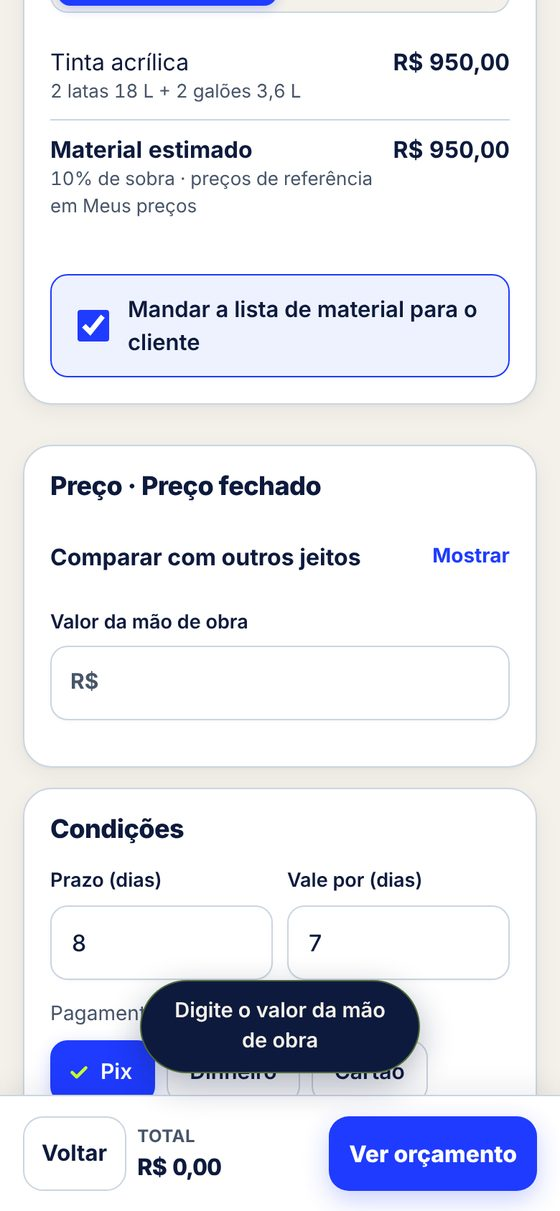
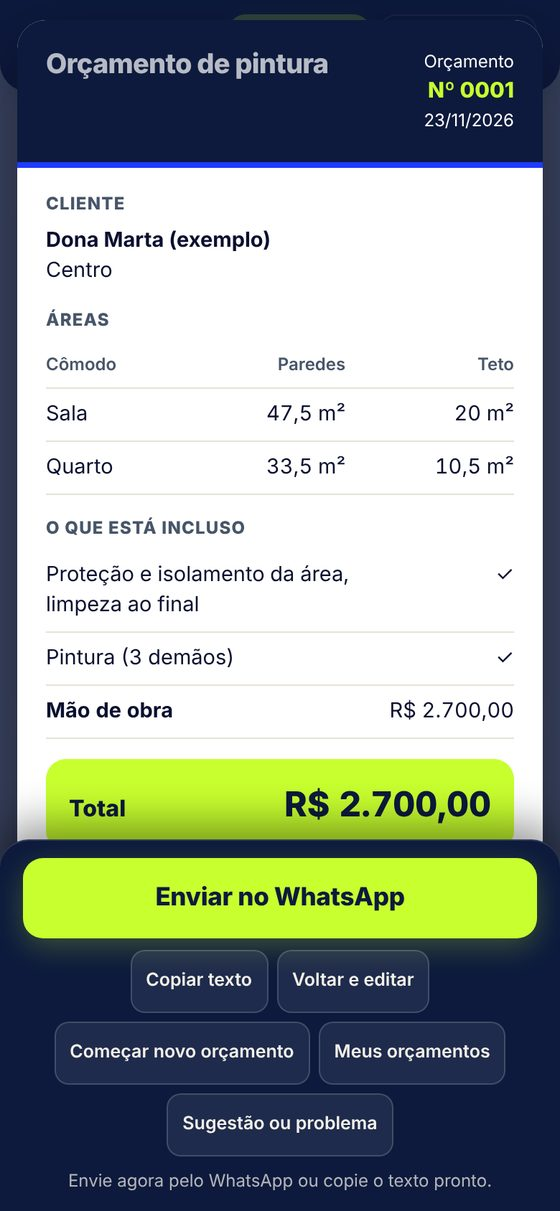
Sugestão ou problema em todas as telas + imagem certa da folha na ajuda
- Botão 'Sugestão ou problema' agora também em Meus orçamentos, Meus clientes,
  Pagamento, Recebimentos, na página de ajuda e na de privacidade (pedido do
  Welbert, 24/11). Cada um registra de qual tela veio.
- Ajuda: a imagem da folha pronta estava mostrando a tela errada; trocada pela
  folha de verdade.

Claude-Session: https://claude.ai/code/session_011c2NkN71q5vzRThzQDLMGi

diff --git a/orcamento/index.html b/orcamento/index.html
@@ -576,6 +576,7 @@ details .in{display:flex;flex-direction:column;gap:10px;margin-top:8px}
     <div id="hist-lista" style="display:flex;flex-direction:column;gap:10px"></div>
     <div class="backup"><button class="link" id="bk-salvar">Salvar cópia de segurança</button><label class="link" style="cursor:pointer">Restaurar cópia<input type="file" id="bk-abrir" accept="application/json,.json" hidden></label></div>
     <p class="hint" style="margin:0;text-align:center">A cópia guarda preços, orçamentos e clientes num arquivo. Use se for trocar de celular.</p>
+    <p class="nb-sug"><span>Achou algo estranho ou tem uma ideia?</span> <button class="link" data-coment="hist">Sugestão ou problema</button></p>
   </div>
 </div>
 <div class="hist-wrap" id="cli-wrap" hidden role="dialog" aria-modal="true" aria-labelledby="cli-t">
@@ -586,6 +587,7 @@ details .in{display:flex;flex-direction:column;gap:10px;margin-top:8px}
     <button class="sec" id="cli-novo" style="min-height:48px">+ Cadastrar cliente</button>
     <div id="cli-edit"></div>
     <div id="cli-lista" style="display:flex;flex-direction:column;gap:10px"></div>
+    <p class="nb-sug"><span>Achou algo estranho ou tem uma ideia?</span> <button class="link" data-coment="cli">Sugestão ou problema</button></p>
   </div>
 </div>
 <div class="hist-wrap" id="pag-wrap" hidden role="dialog" aria-modal="true" aria-labelledby="pag-t">
@@ -593,6 +595,7 @@ details .in{display:flex;flex-direction:column;gap:10px;margin-top:8px}
     <div class="hist-cab"><h2 id="pag-t">Pagamento</h2><button class="link" id="pag-fechar">Fechar</button></div>
     <p class="hint" style="margin:0" id="pag-sub"></p>
     <div id="pag-corpo" style="display:flex;flex-direction:column;gap:10px"></div>
+    <p class="nb-sug"><span>Achou algo estranho ou tem uma ideia?</span> <button class="link" data-coment="pag">Sugestão ou problema</button></p>
   </div>
 </div>
 <div class="hist-wrap" id="rec-wrap" hidden role="dialog" aria-modal="true" aria-labelledby="rec-t">
@@ -600,6 +603,7 @@ details .in{display:flex;flex-direction:column;gap:10px;margin-top:8px}
     <div class="hist-cab"><h2 id="rec-t">Recebimentos</h2><button class="link" id="rec-fechar">Fechar</button></div>
     <p class="hint" style="margin:0">O que já entrou e o que ainda falta receber dos serviços fechados. Fica só neste celular.</p>
     <div id="rec-corpo" style="display:flex;flex-direction:column;gap:10px"></div>
+    <p class="nb-sug"><span>Achou algo estranho ou tem uma ideia?</span> <button class="link" data-coment="rec">Sugestão ou problema</button></p>
   </div>
 </div>
 <div class="toast" id="toast" hidden></div>

diff --git a/privacidade.html b/privacidade.html
@@ -67,6 +67,7 @@ a{color:var(--cobalto);font-weight:700}
 <p>Se esta política mudar, a data lá em cima muda junto. O Na Bucha ainda não foi lançado: preços e condições podem mudar antes de abrir.</p>
 
 <a class="voltar" href="./">← Voltar para a lista de espera</a>
+<p style="margin:28px 0 0;font-size:15px;color:#5B6075">Achou algo estranho ou tem uma ideia? <button data-coment="privacidade" style="font:inherit;font-weight:700;color:#1F3BFF;background:none;border:0;padding:10px 0;min-height:44px;cursor:pointer;text-decoration:underline">Sugestão ou problema</button></p>
 </main>
 </body>
 </html>

diff --git a/ajuda/index.html b/ajuda/index.html
@@ -117,6 +117,7 @@ figcaption{font-size:14px;color:var(--cinza);margin-top:4px}
 
 <a class="cta" href="../orcamento/?utm_source=ajuda">Fazer meu orçamento agora</a>
 <a class="voltar" href="../">Voltar ao início</a>
+<p style="margin:28px 0 0;font-size:15px;color:#5B6075">Achou algo estranho ou tem uma ideia? <button data-coment="ajuda" style="font:inherit;font-weight:700;color:#1F3BFF;background:none;border:0;padding:10px 0;min-height:44px;cursor:pointer;text-decoration:underline">Sugestão ou problema</button></p>
 </main>
 </body>
 </html>
